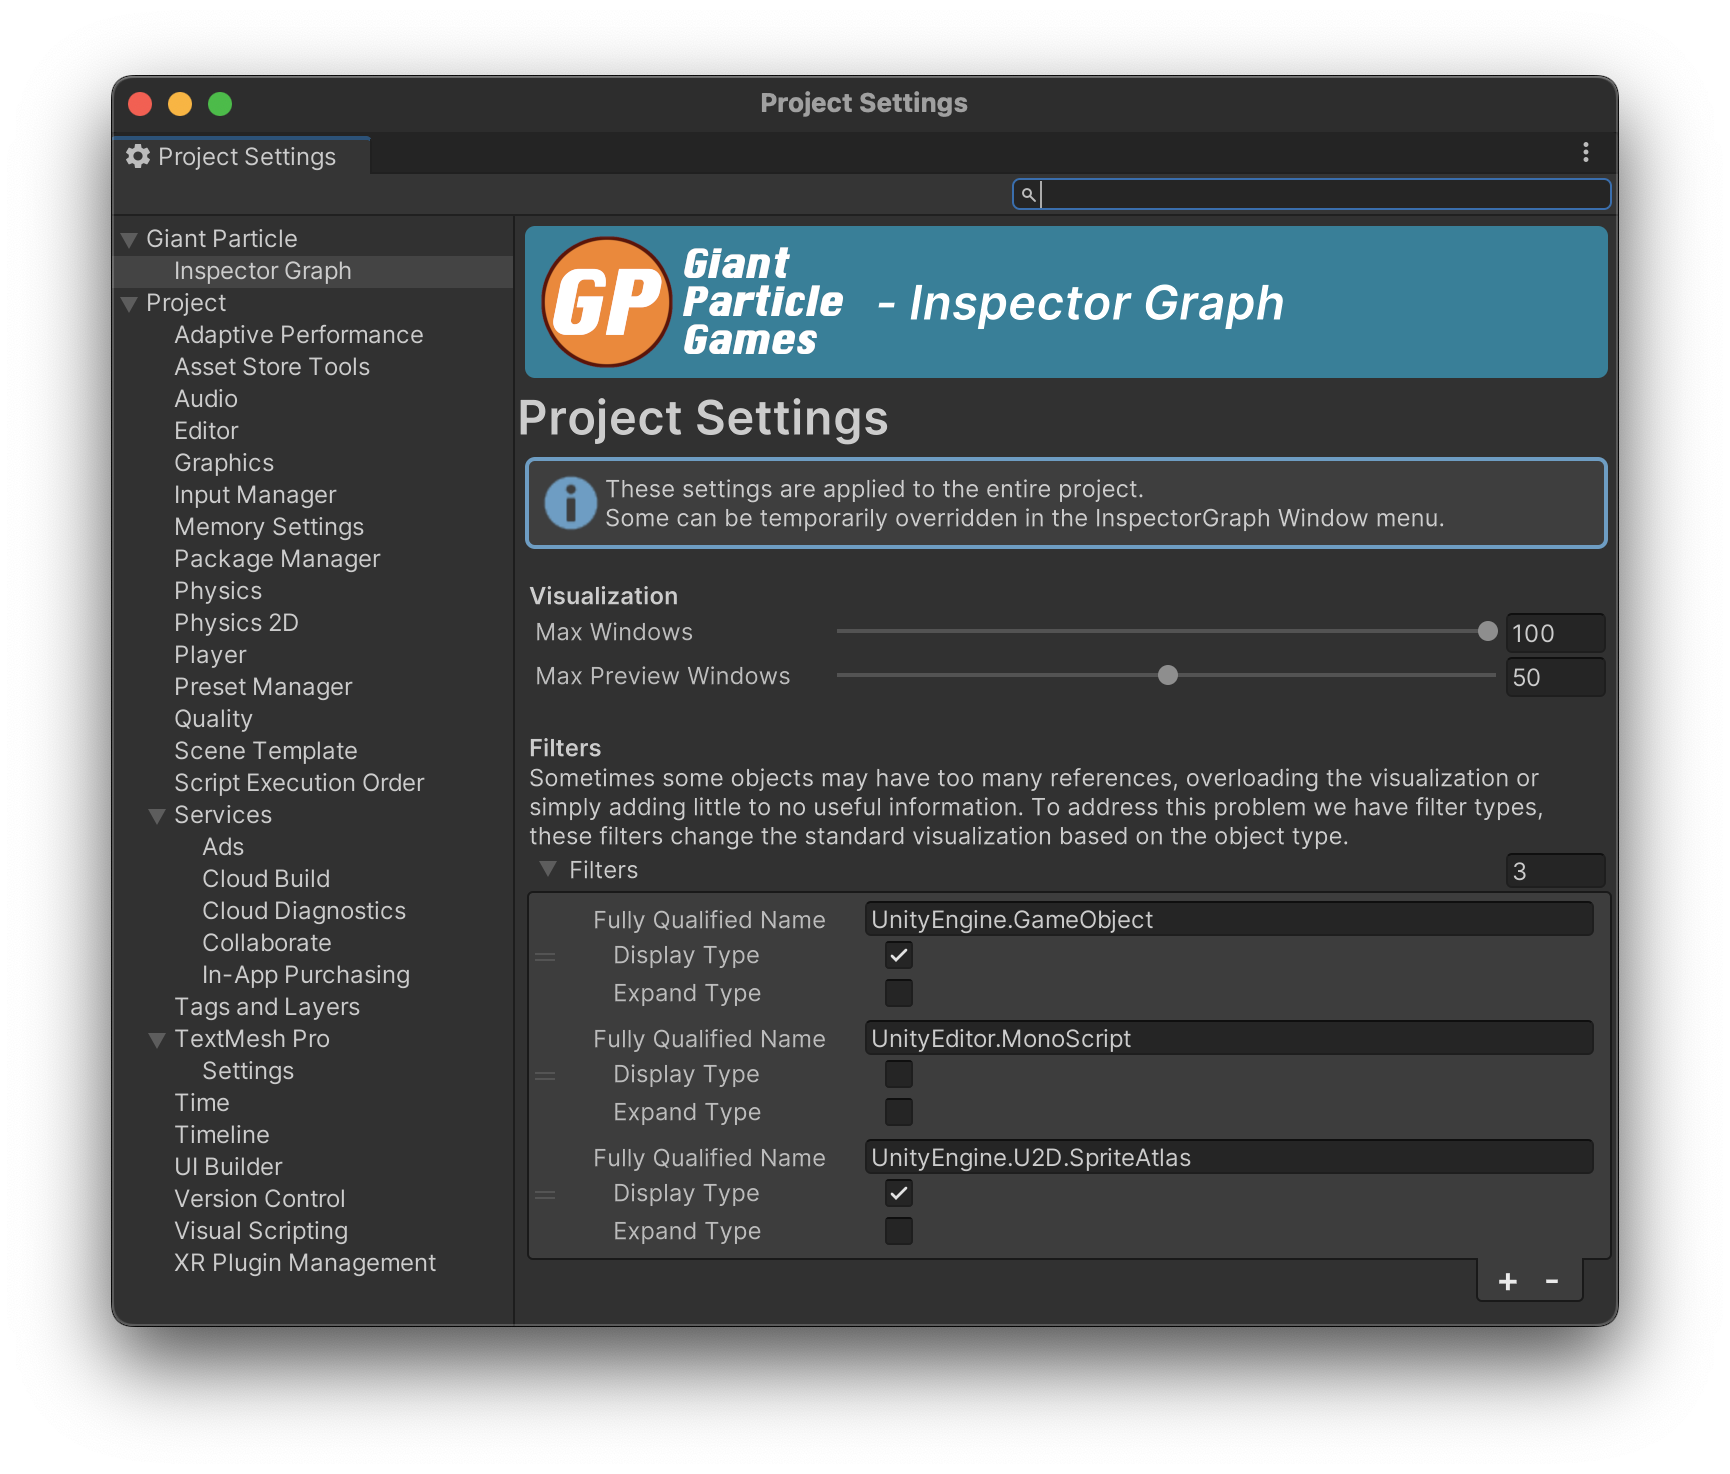
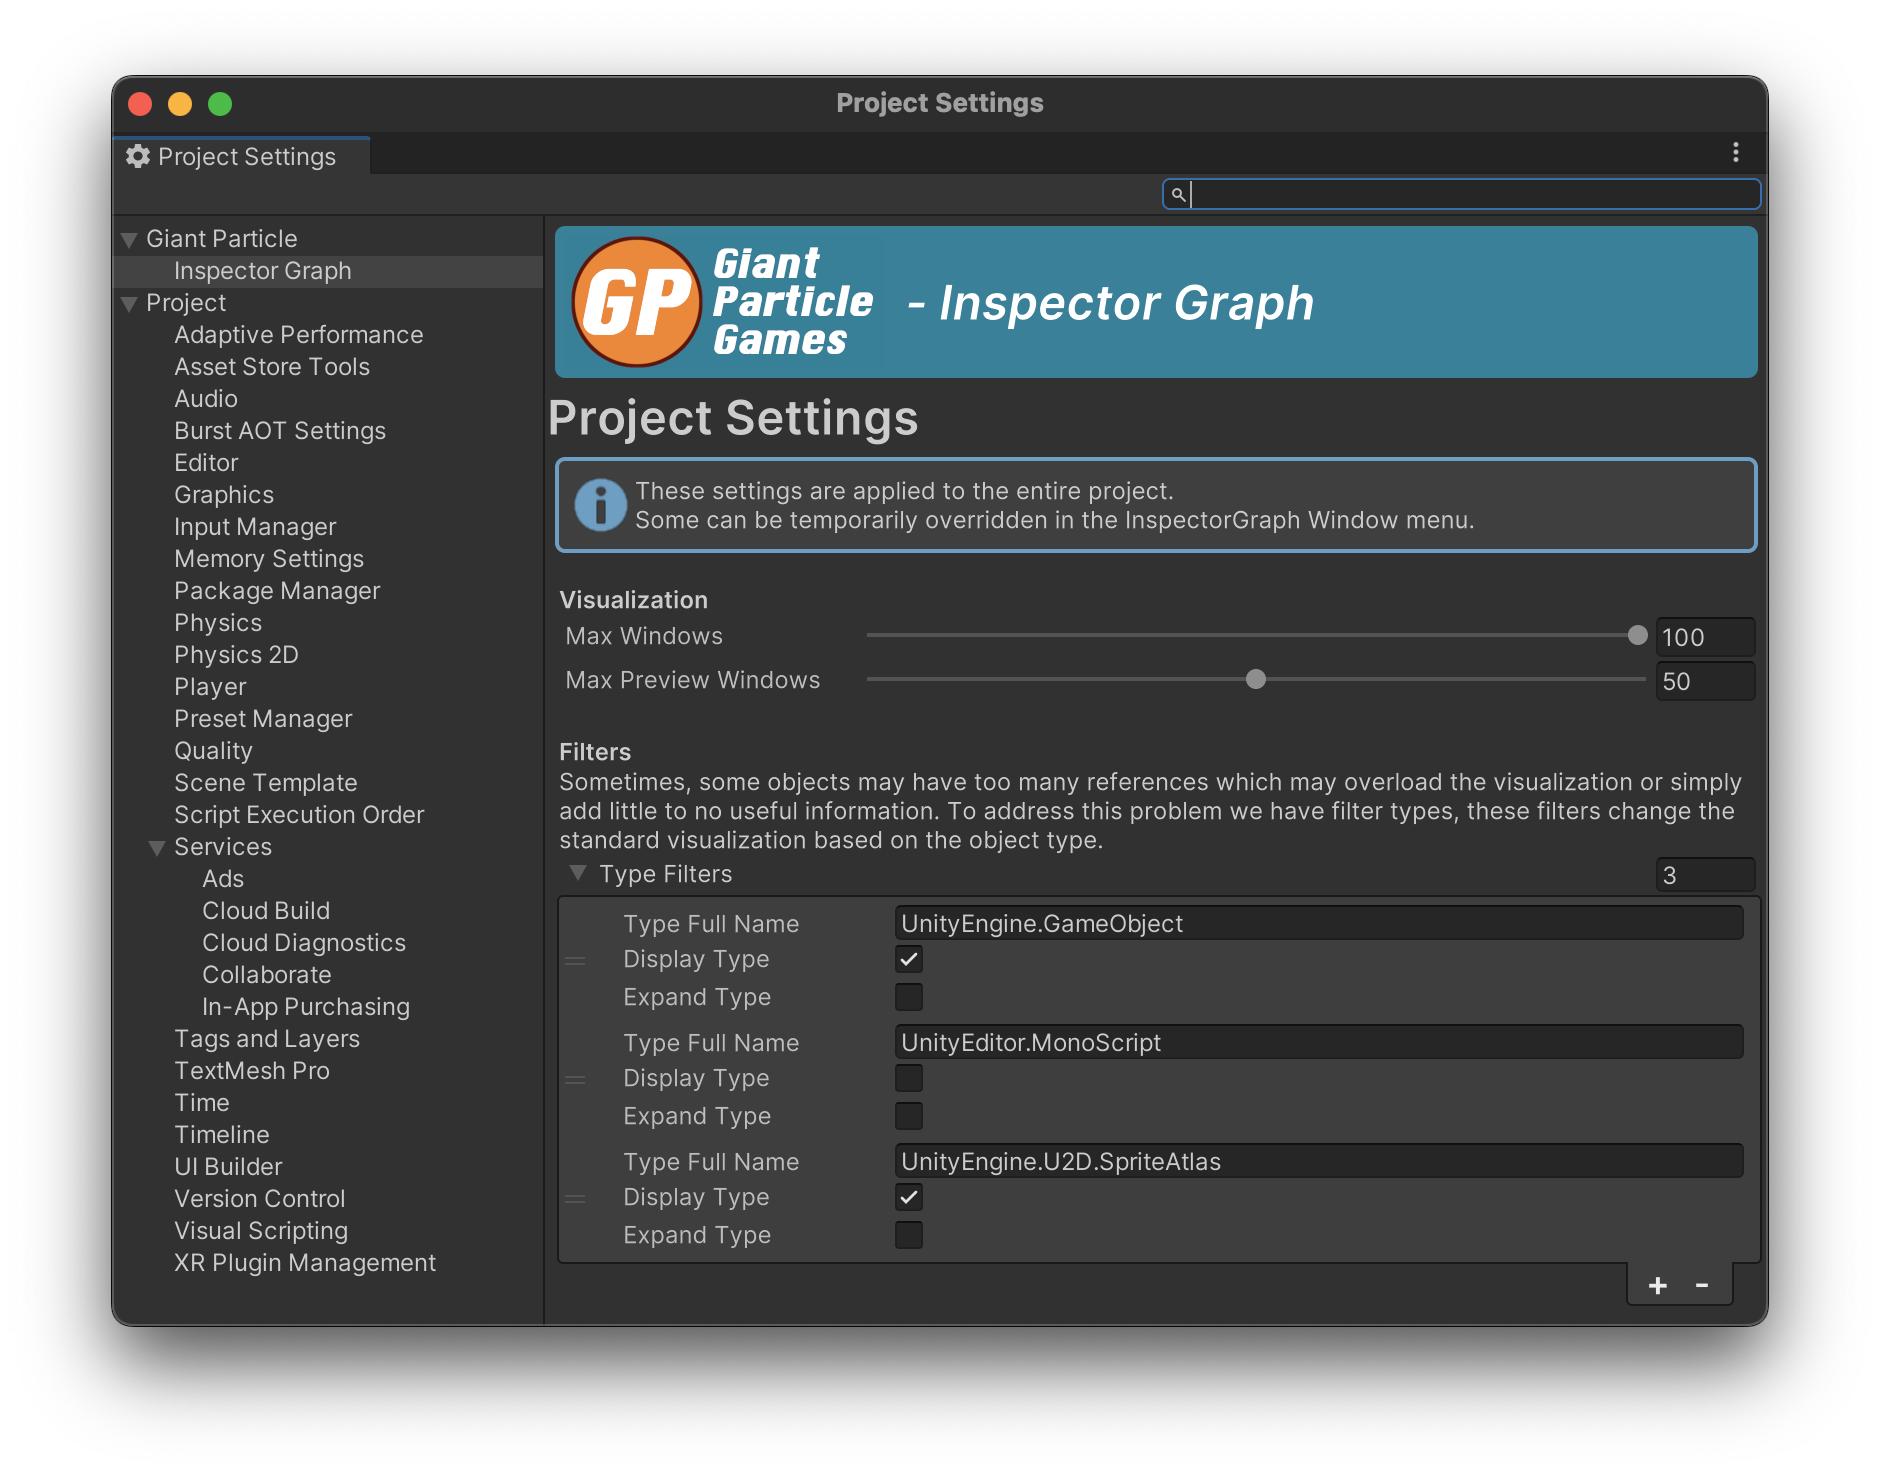
Updated readme

diff --git a/README.md b/README.md
@@ -57,7 +57,11 @@ By default, the data is saved in your project under `Assets/Editor/com.giantpart
 ### Filters
 Filters are an easy way to control the visibility or expansion of objects of certain types. In this section you can add or remove filters based on your preferences and the types available in your project.
 
-When clicking the **Fully Qualified Name** field, you will see a popup with all available types in your project, just search for the one you are looking for via the search bar and double-click it to autocomplete the field or manually type in the type.
+* **Type Full Name**: This is the [fully qualified name](https://learn.microsoft.com/en-us/dotnet/framework/reflection-and-codedom/specifying-fully-qualified-type-names) of the object type to filter without the assembly name (See [Type.FullName](https://learn.microsoft.com/en-us/dotnet/api/system.type.fullname?view=net-7.0))
+* **Display Type**: Indicate to display, or not, objects of the given type
+* **Expand Type**: Indicate to expand the graph from a visible object of the given type
+
+When clicking the **Type Full Name** field, you will see a popup with all available types in your project, just search for the one you are looking for via the search bar and double-click it to autocomplete the field or manually type in the type.
 
 ![Type Selection Popup](.docs/TypeSelectionPopup.png)
 
